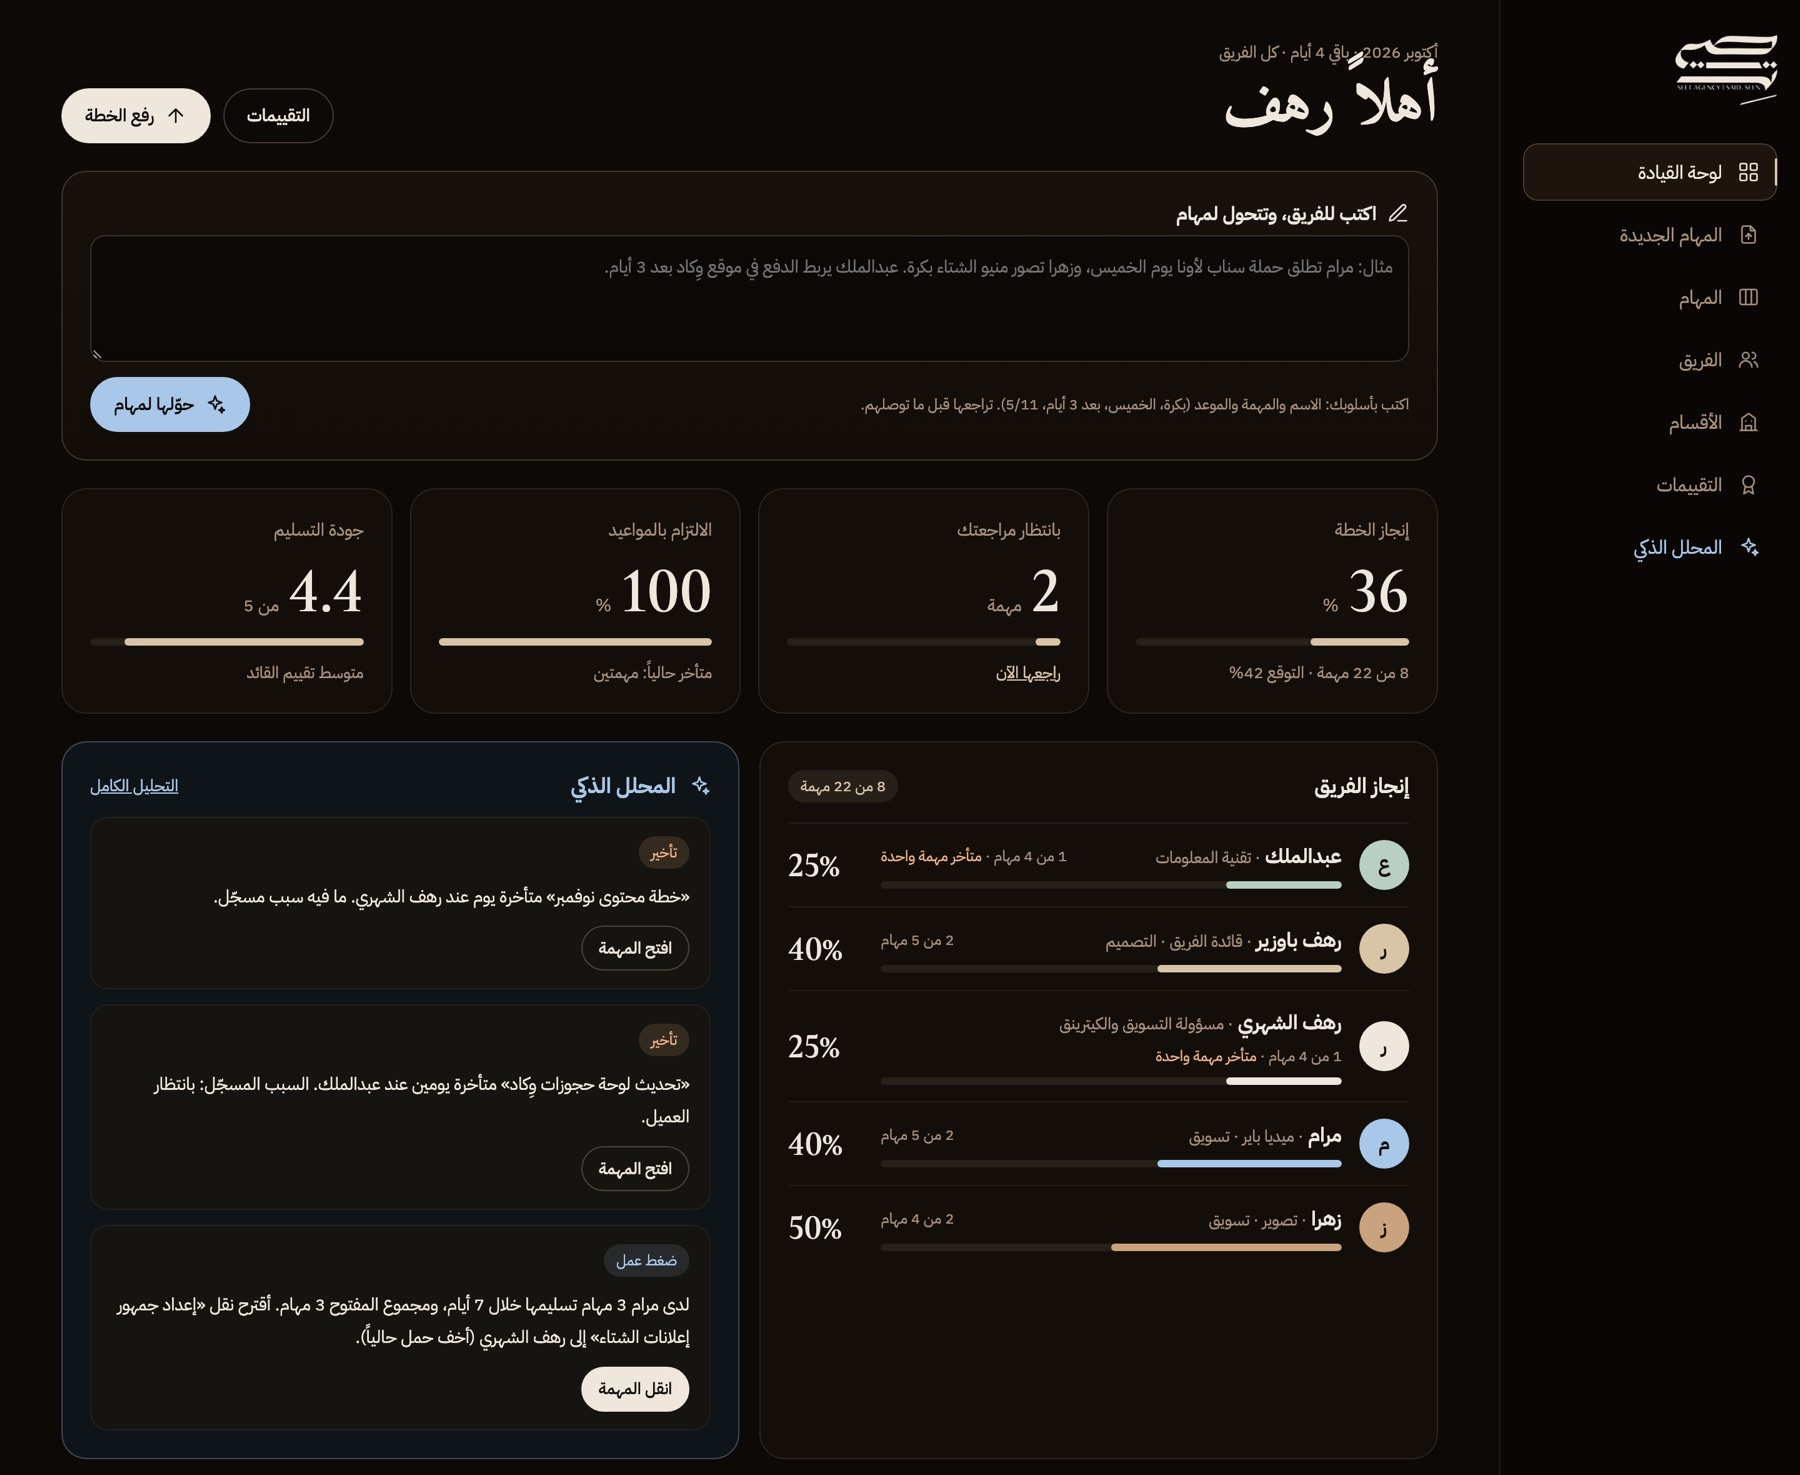
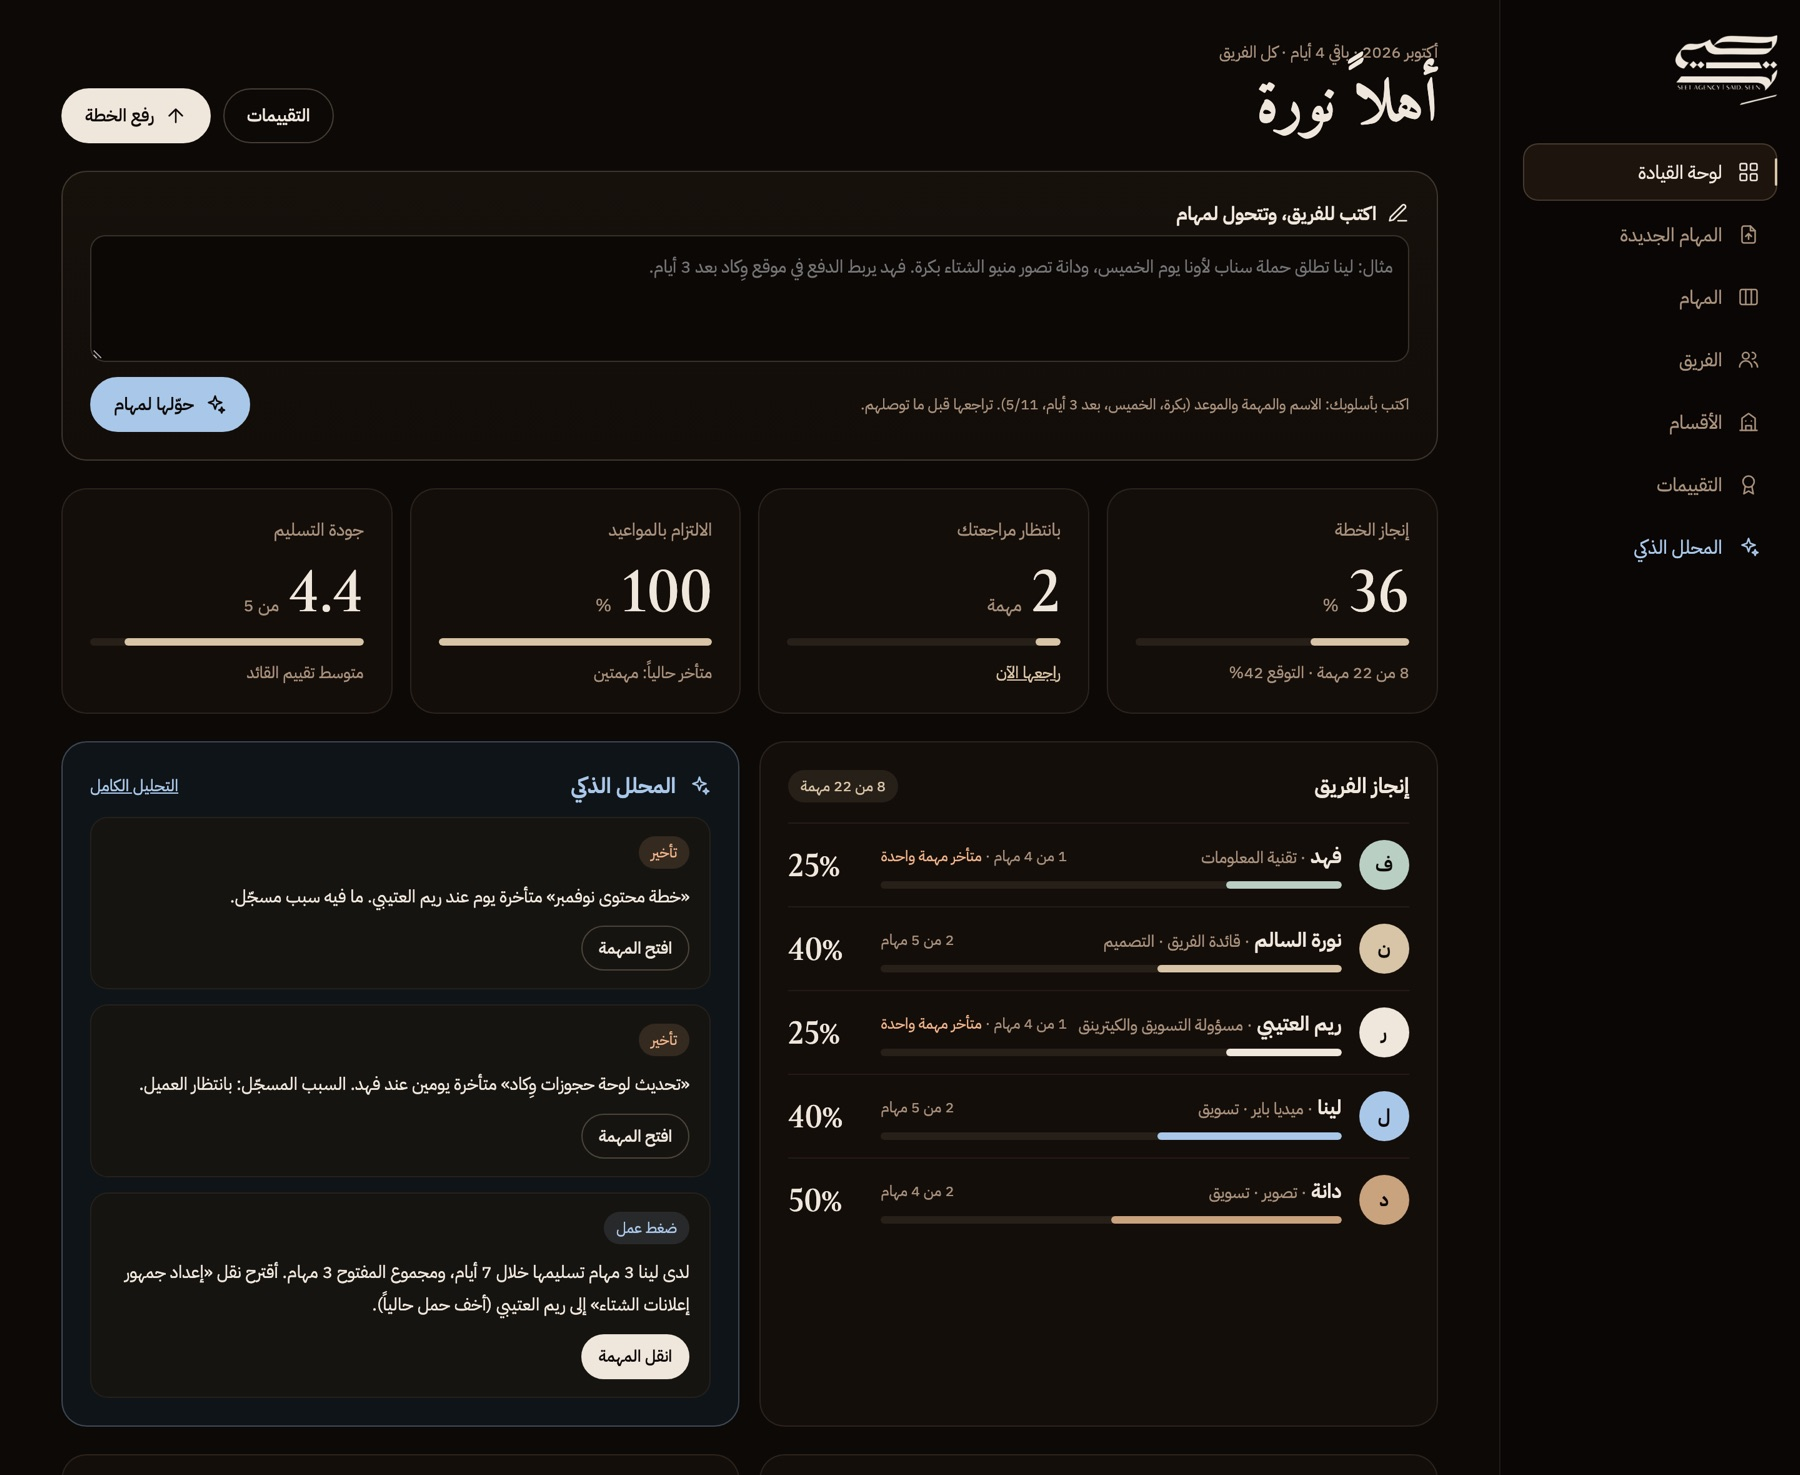
أسماء افتراضية في الصور والنصوص

diff --git a/index.html b/index.html
@@ -220,7 +220,7 @@ dialog button{position:fixed;top:20px;left:20px;width:48px;height:48px;border-ra
           <article class="item" data-i="0">
             <span class="k">الخطة</span>
             <h3>تكتب كأنك تكلم الفريق، وتطلع مهام</h3>
-            <p>«مرام تطلق حملة سناب الخميس، وزهرا تصور المنيو بكرة». كل جملة فيها اسم تصير مهمة لصاحبها بموعدها، وتراجعها قبل ما توصل.</p>
+            <p>«لينا تطلق حملة سناب الخميس، ودانة تصور المنيو بكرة». كل جملة فيها اسم تصير مهمة لصاحبها بموعدها، وتراجعها قبل ما توصل.</p>
             <ul><li>بدون اسم؟ يختار الأنسب حسب التخصص وضغط الشغل</li><li>أو ترفع ملف الخطة ويتحلل ويتوزع</li></ul>
             <figure class="m-shot frame" style="margin:0"><img src="img/compose-full.jpg" alt="تحويل الكلام لمهام مقترحة" loading="lazy"></figure>
           </article>
